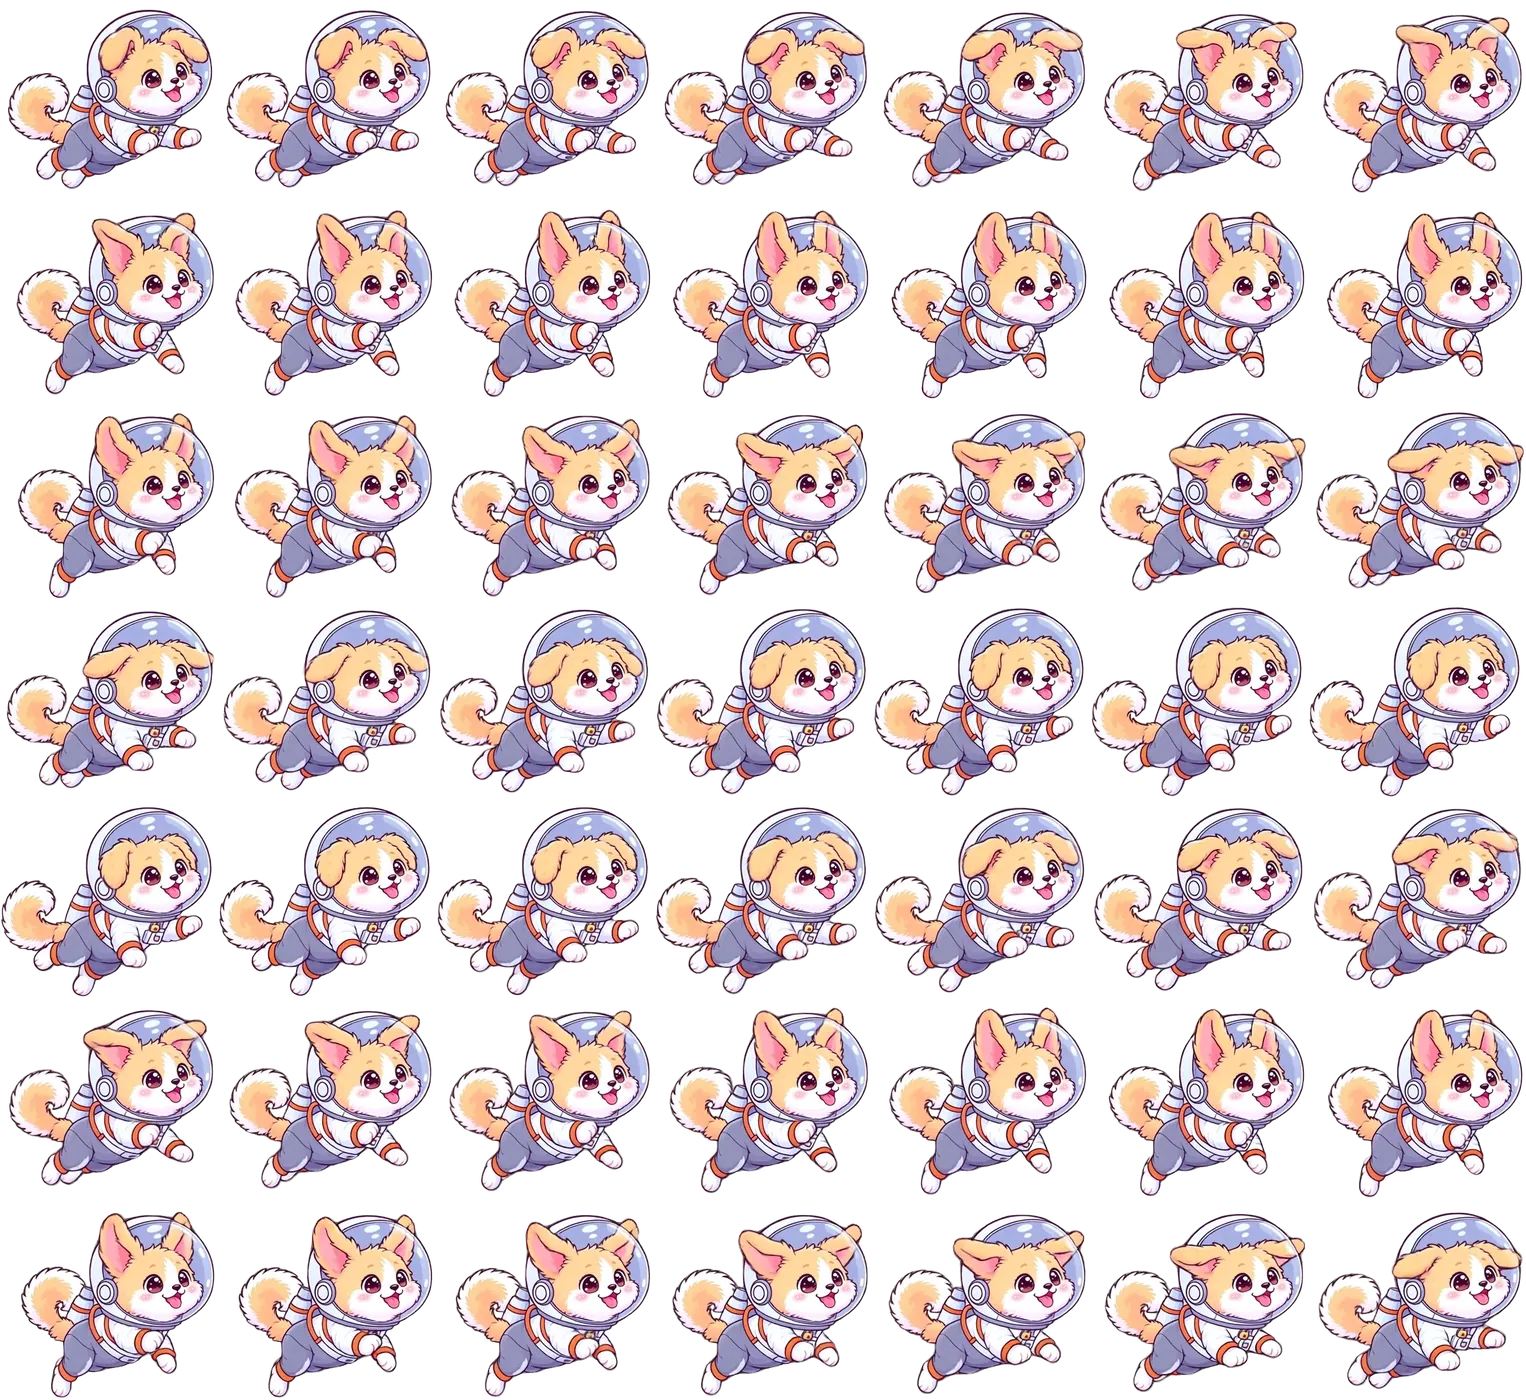
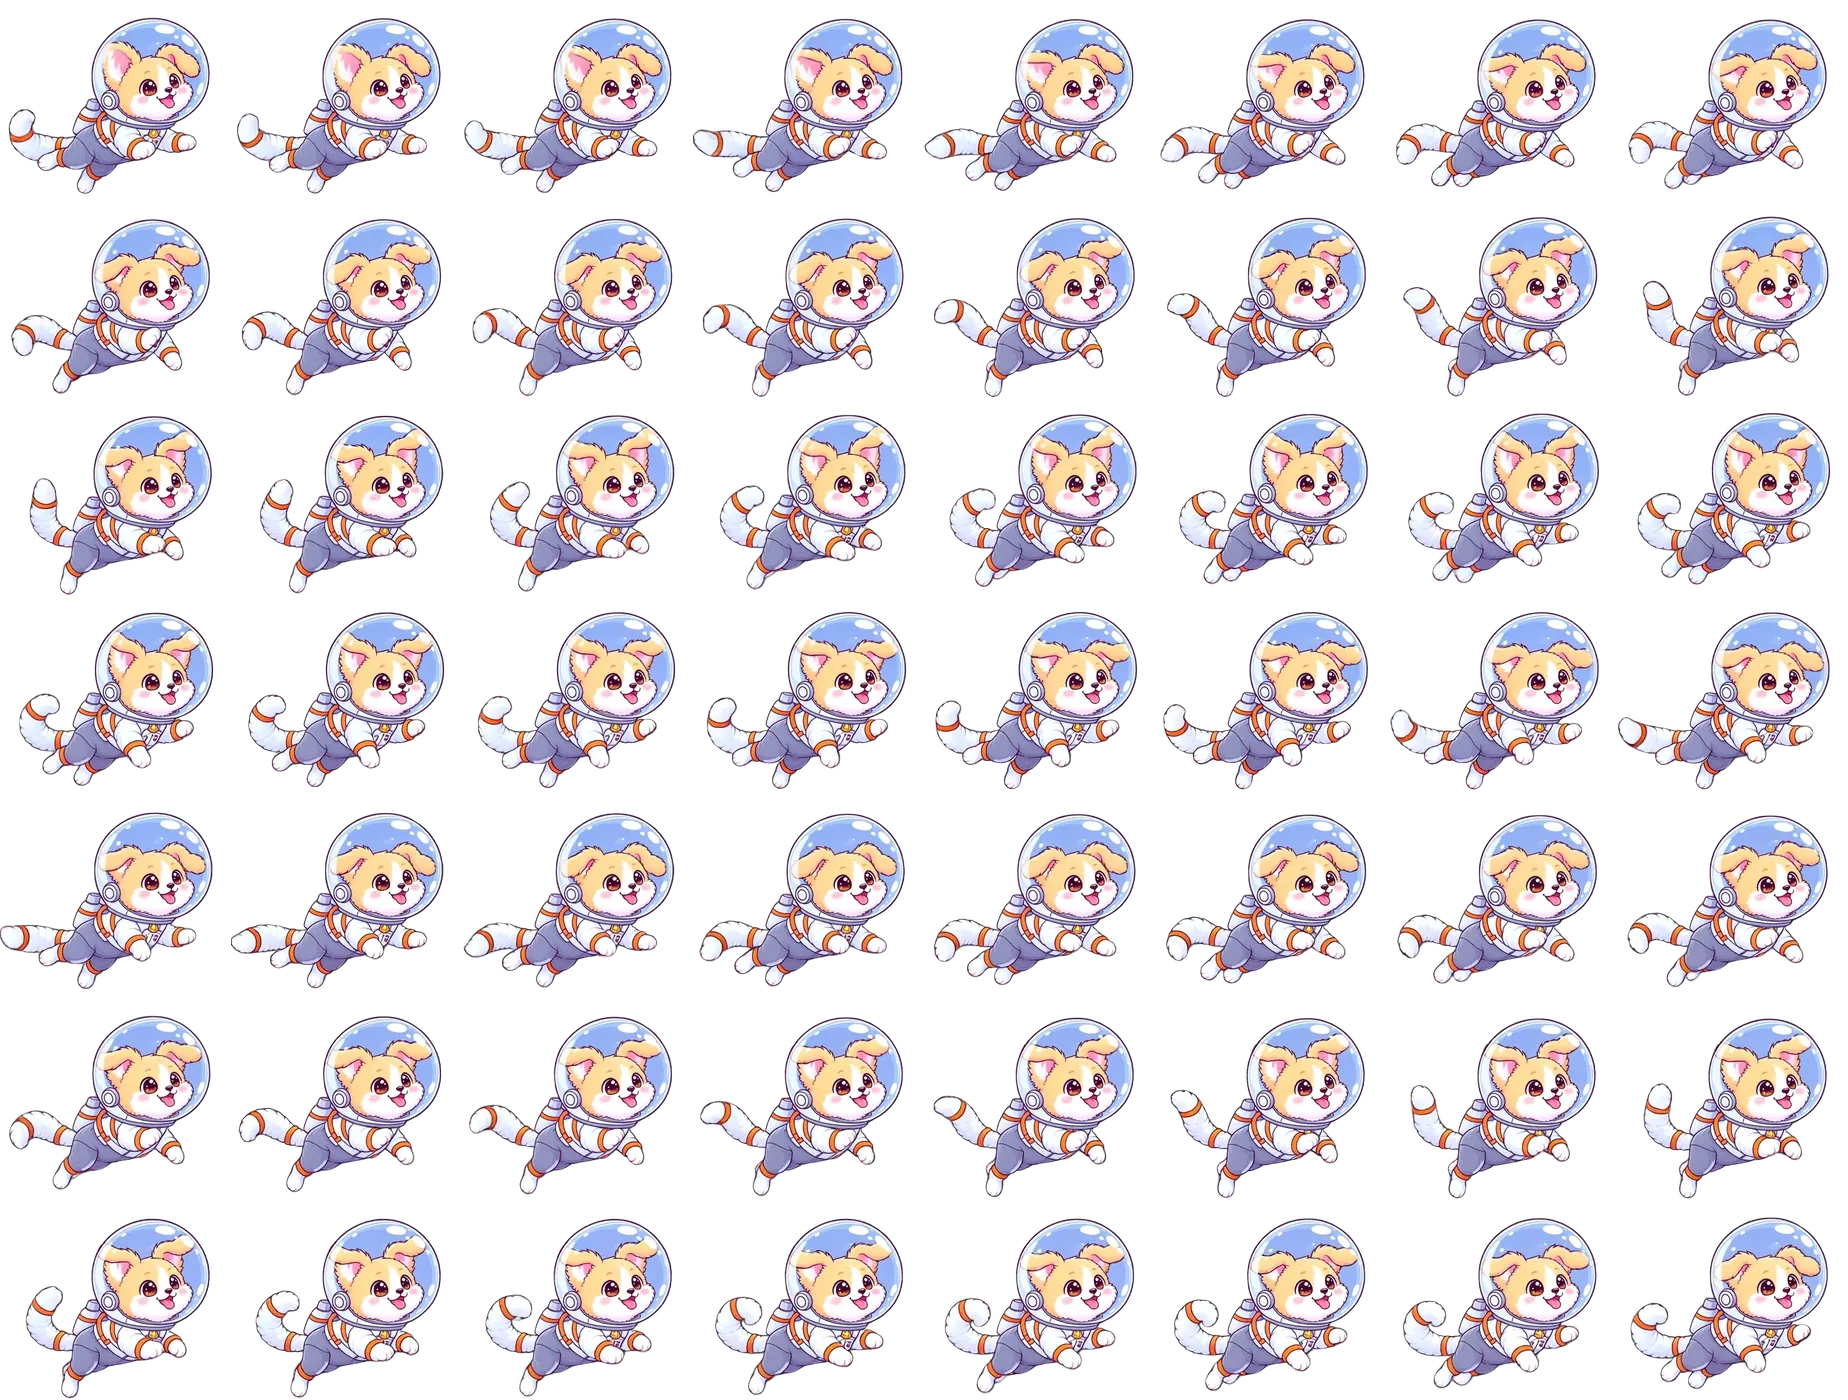
v0.7.97 방울이 우주복 다시 — 큰 헬멧에 귀가 다 들어가고 꼬리는 우주복 꼬리 덮개 안 (헤엄 56장·맞은 그림)

diff --git a/index.html b/index.html
@@ -1073,7 +1073,7 @@
   const elTitle = document.getElementById("overTitle");
   const coinNote = document.getElementById("coinNote");
 
-  const GAME_VERSION = "v0.7.96";
+  const GAME_VERSION = "v0.7.97";
   /* 제작사 스플래시(bamhobak friends 로고) — 2026-09-20 끔. 다시 켜려면 true */
   const SPLASH_USE = false;   // 코드를 고칠 때마다 뒤 두 자리를 올린다
   document.getElementById("ver").textContent = GAME_VERSION;
@@ -1614,10 +1614,14 @@
      아래 right 값은 시트 칸에서 잰 평균. 맞은 그림(bangul_space_hurt.png)은 헬멧에 금이 가고
      '> <' 로 울며 별이 도는 모습 (OpenAI spacehurt25_2). 둘 다 adj 를 땅 위와 같게 둬서 얼굴 크기가 같다. */
   const SPR_BANGUL_SPACE = {
-    right: { img: null, aspect: 1.0890, head: 0.425, cx: 0.672, cy: 0.378, adj: 0.5710,   // 49장 시트 칸(218x200) 기준
-             bcx: 0.500, bcy: 0.520, brr: 0.550, float: true },
-    hurt:  { img: null, aspect: 1.0906, head: 0.447, cx: 0.715, cy: 0.360, adj: 0.5710,
-             bcx: 0.500, bcy: 0.550, brr: 0.530 }
+    /* v0.7.97 우주복을 다시 뽑았다 — 헤엄칠 때 귀 끝이 헬멧 유리를 뚫고 나와서, 헬멧을 크게 하고
+       꼬리는 우주복 꼬리 덮개 안에 넣었다(OpenAI space2_3). 헤엄은 Ludo 56장 시트(8x7, 칸 231x200) —
+       "귀는 헬멧 안에서 살짝만, 헬멧은 모양이 안 변함". 맞은 그림(spacehurt2_3)은 얼굴을 찌푸려 작게
+       잡히므로 얼굴 대신 헬멧 지름이 헤엄 때와 같아지게 adj 를 잡았다 (안 그러면 맞는 순간 16% 커진다). */
+    right: { img: null, aspect: 1.1538, head: 0.418, cx: 0.662, cy: 0.395, adj: 0.5710,
+             bcx: 0.500, bcy: 0.550, brr: 0.560, float: true },
+    hurt:  { img: null, aspect: 1.0281, head: 0.360, cx: 0.690, cy: 0.415, adj: 0.5130,
+             bcx: 0.500, bcy: 0.550, brr: 0.550 }
   };
   /* 무소유 전용 우주복 —
      헬멧이 판정원이라 지름·중심을 재어 넣었다 (몸 높이는 다른 직업과 같은 1.475D). */
@@ -1828,7 +1832,7 @@
   }
   // 방울이는 걷지 않고 허공에서 개헤엄 친다 — 땅 위·우주복 모두 Ludo 49장
   loadSheetFrames(SPR_BANGUL, "bangul_swim_sheet.webp", 7, 49, true);
-  loadSheetFrames(SPR_BANGUL_SPACE, "bangul_space_swim_sheet.webp", 7, 49, true);
+  loadSheetFrames(SPR_BANGUL_SPACE, "bangul_space_swim_sheet.webp", 8, 56, true);
 
   // 도와줘 정연핑 — 아래에서 위로 날아가며 지나간 자리의 똥을 부순다
   let helperImg = null, helperSpaceImg = null;

diff --git a/README.md b/README.md
@@ -5,7 +5,7 @@
 👉 **플레이: https://bamhobak.github.io/ddongpi/**
 
 > 이 문서는 `index.html` 의 실제 값을 옮겨 적은 것입니다. 숫자를 고쳤으면 여기도 같이 고쳐 주세요.
-> 마지막으로 맞춰 본 판: **v0.7.96**
+> 마지막으로 맞춰 본 판: **v0.7.97**
 
 ## 조작
 - 📱 모바일: 화면 아무 데나 손가락을 대고 좌우로 **끌기** (누른 자리가 기준점 — 순간이동하지 않음)
@@ -292,9 +292,9 @@
 |---|---|---|
 | `bangul_right.png` (얌전히 앉은 정면) | OpenAI `gpt-image-2` (`tools/gen_sprite.py`) | **소개 전용** — 직업 카드·직업 소개·순위표 |
 | `bangul_hurt.png` (맞았을 때, 1초) | OpenAI — 머리에 혹·별, 눈 `> <`, 눈물, 엉엉 | 게임 안 |
-| `bangul_space_right.png` (우주복 정지) | OpenAI — 옛 푸들 우주복 디자인(유리 헬멧·흰 옷 주황 줄·산소통)을 입힘 | 우주복 헤엄의 원본 |
-| `bangul_space_swim_sheet.webp` (우주 개헤엄 49장, 78초~) | 위 그림을 Ludo 로 움직임 (헬멧 안에서 귀 펄럭) | 게임 안 |
-| `bangul_space_hurt.png` (우주에서 맞았을 때) | OpenAI — 헬멧에 금, `> <` 로 엉엉, 별 | 게임 안 |
+| `bangul_space_right.png` (우주복 정지) | OpenAI — 유리 헬멧·흰 옷 주황 줄·산소통, **큰 헬멧(귀가 여유 있게 안에)**, 꼬리는 **우주복 꼬리 덮개** 안 (v0.7.97) | 우주복 헤엄의 원본 |
+| `bangul_space_swim_sheet.webp` (우주 개헤엄 56장, 78초~) | 위 그림을 Ludo 로 움직임 (귀는 헬멧 안에서 살짝만 까딱, 꼬리 덮개째 살랑) | 게임 안 |
+| `bangul_space_hurt.png` (우주에서 맞았을 때) | OpenAI — 헬멧에 금, `> <` 로 엉엉, 별 (새 큰 헬멧·꼬리 덮개) | 게임 안 |
 | `bangul_swim_sheet.webp` (개헤엄 49장, 7×7 시트) | 위 그림을 Ludo `animateSprite`(hydra, 3초, "귀가 날개처럼 크게 펄럭이게")로 움직임 | 게임 안 |
 
 (2026-09-22 흰 푸들에서 바뀜 — 땅 위·우주복 모두 헤엄·맞은 그림까지 교체 완료.)
